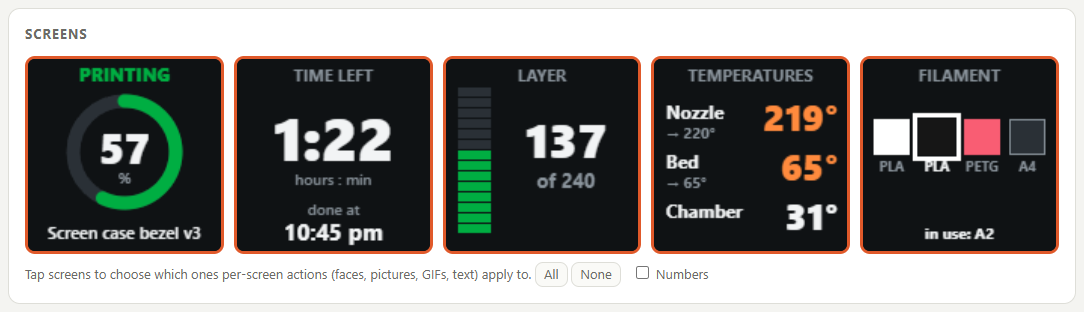
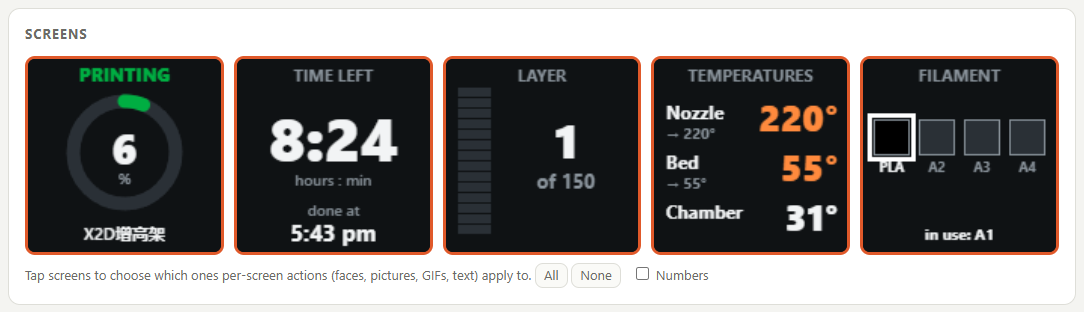
README: the 3D printer screenshot from a real print on a P2S

diff --git a/README.md b/README.md
@@ -58,7 +58,7 @@ rainbow edge light when one goes down. A small health page goes on each server (
 time left and when it'll be done, the layer, temperatures and the filament in use, with the rainbow edge light
 when a print finishes or fails. The printer stays in its normal mode, so Bambu's app and cloud keep working.
 
-![3D printer: printing 57%, 1:22 left and done at 10:45 pm, layer 137 of 240, nozzle and bed heating, and the AMS slots with the one in use outlined](docs/screenshots/screens-printer.png)
+![3D printer on a Bambu Lab P2S: printing 6%, 8:24 left and done at 5:43 pm, layer 1 of 150, the nozzle and bed at temperature, and the AMS with the black PLA in use outlined](docs/screenshots/screens-printer.png)
 
 **Music visualizer:** dances in time with the beat it hears through the microphone.
 
